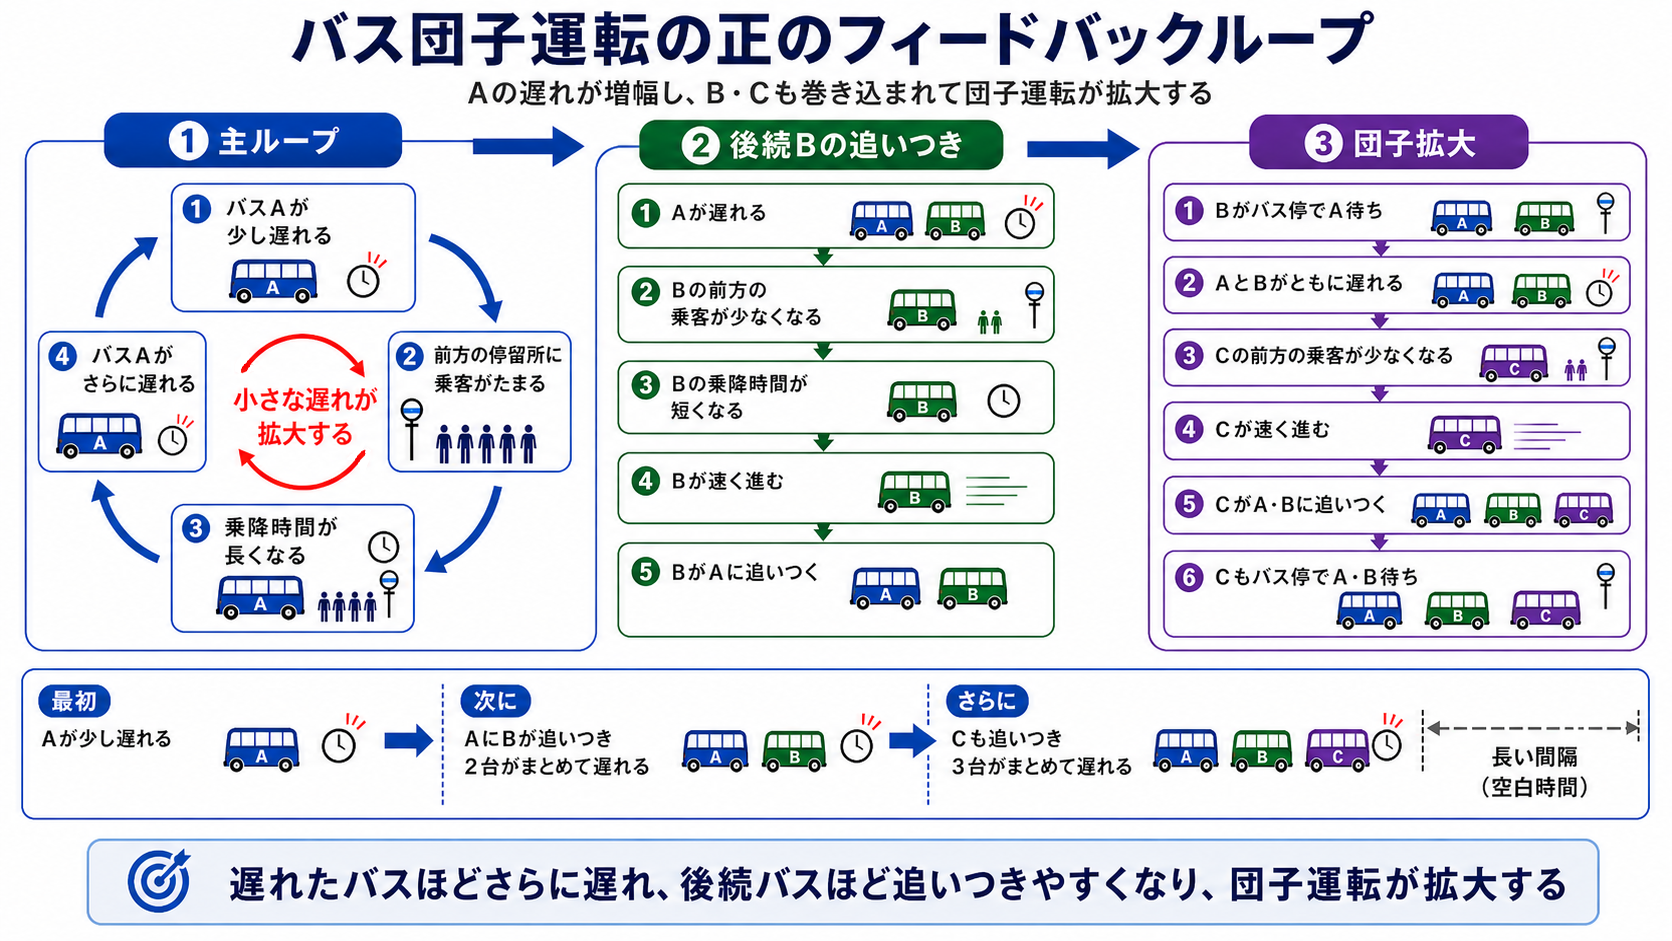
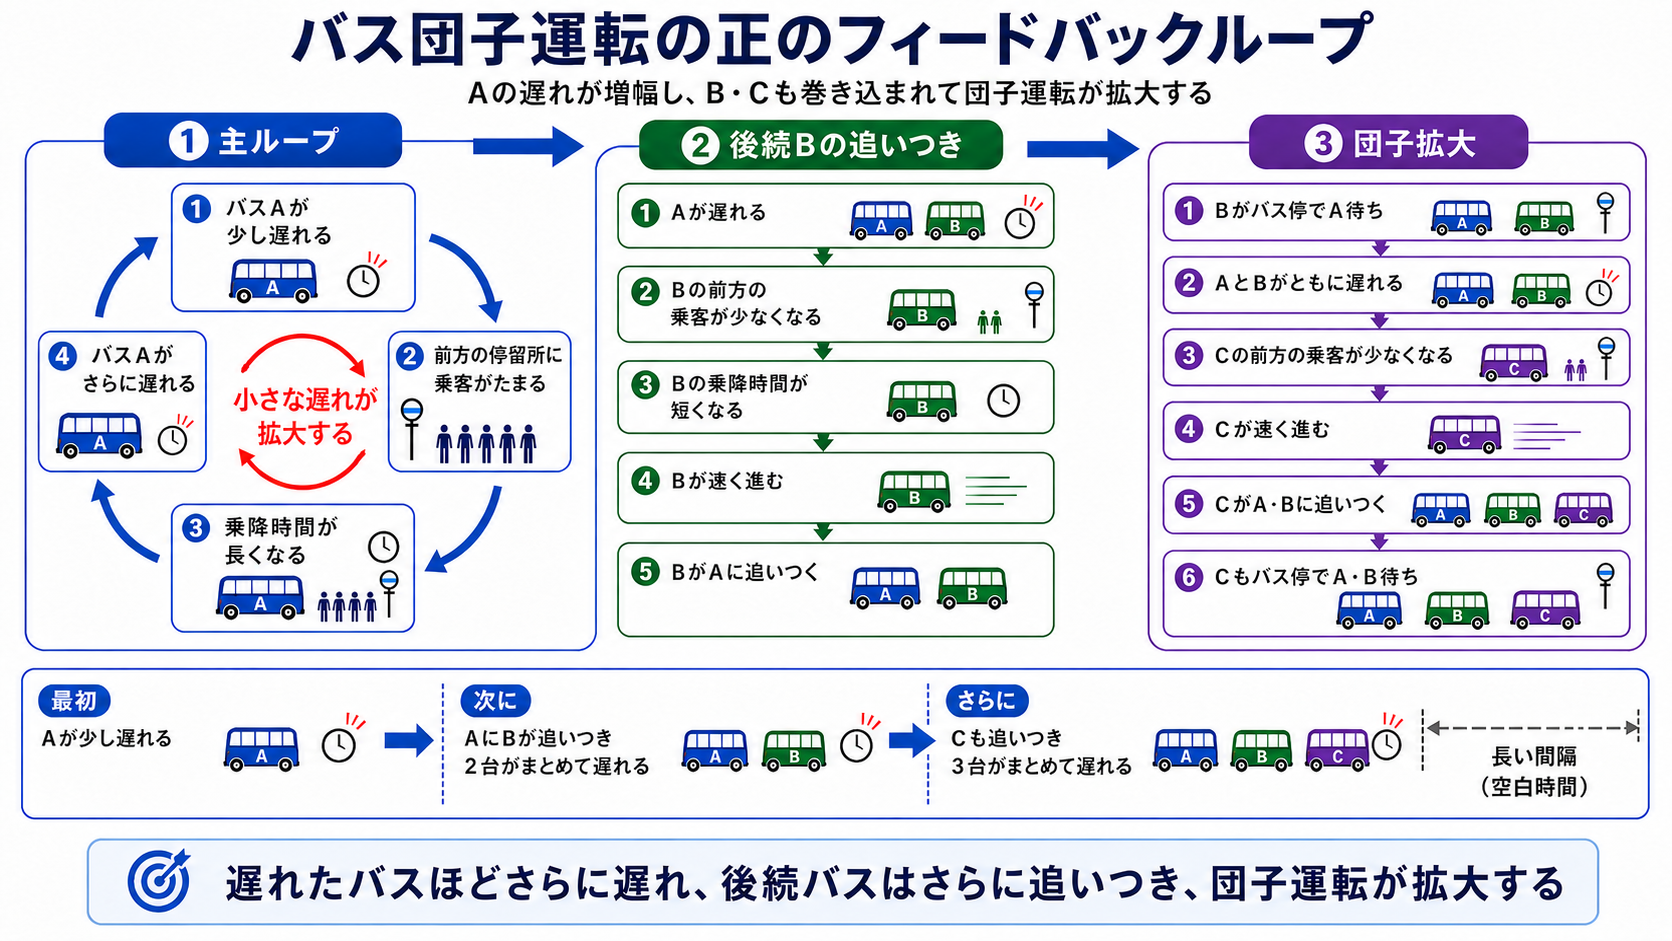
Update control visuals

diff --git a/index.html b/index.html
@@ -67,28 +67,11 @@
       <aside class="notes"><b>話すこと：</b>ここでは「100年前に団子運転に相当する現象を見ていた物理学者がいた」という小話として軽く触れる。寺田は、混雑車両に乗客が集中する行動をかなり批判的に見ていた点、そしてその行動が停車時間を伸ばし団子化を育てる点を添える。テーマとのつながりは、後半の乗客行動のスライドで改めて回収する。</aside>
     </section>
 
-    <section class="slide">
-      <div class="frame stack" style="grid-template-rows:auto auto 1fr">
-        <div>
-          <span class="eyebrow">今回やったこと</span>
-          <h2 style="margin-top:1vh">自作シミュレーターで、団子運転を再現する</h2>
-        </div>
-        <p class="subtitle">ブラウザ上で動くHTML/JavaScriptシミュレーターを作り、条件を変えながら制御の効き方を比較した。</p>
-        <div class="kpi-grid four">
-          <div class="kpi"><b>路線</b><span>同一路線を複数バスが走る</span></div>
-          <div class="kpi"><b>乗客</b><span>停留所ごとに発生・乗降</span></div>
-          <div class="kpi"><b>制約</b><span>満車・停留所・ランダム遅延</span></div>
-          <div class="kpi"><b>比較</b><span>制御なし / スキップ / スプリング</span></div>
-        </div>
-        <div class="card">
-          <h3>実演で見せるポイント</h3>
-          <p>バス同士の間隔、待ち時間、混雑率、満車、スキップ、保持時間がどう変化するかを、画面で見せる。</p>
-        </div>
-      </div>
-      <div class="slide-no"></div>
-      <aside class="notes"><b>補足：</b>ここでは路線の模式図は出さず、何をモデル化したかを文字とKPIカードで説明する。必要なら実際のシミュレーター画面を別途スクショで差し替える。</aside>
+    <section class="slide image-only white">
+      <img class="full-image" src="assets/images/skip_spring_control.png" alt="スキップ制御とスプリング制御の直感的イメージ">
+      <aside class="notes"><b>説明：</b>スキップ制御は局所的に負担を分散し、スプリング制御は前後の車間バランスを見て全体を整える、という違いを図で押さえる。</aside>
     </section>
-
+    
     <section class="slide">
       <div class="frame stack" style="grid-template-rows:auto 1fr">
         <div>
@@ -103,11 +86,6 @@
       </div>
       <div class="slide-no"></div>
       <aside class="notes"><b>話すこと：</b>スキップは「乗せない」ではなく「後続に任せる」。スプリング法は車間均等化の考え方。ただし次のスライドで「それだけでは不十分」と展開する。</aside>
-    </section>
-
-    <section class="slide image-only white">
-      <img class="full-image" src="assets/images/skip_spring_control.png" alt="スキップ制御とスプリング制御の直感的イメージ">
-      <aside class="notes"><b>説明：</b>スキップ制御は局所的に負担を分散し、スプリング制御は前後の車間バランスを見て全体を整える、という違いを図で押さえる。</aside>
     </section>
 
     <section class="slide spring-discovery">